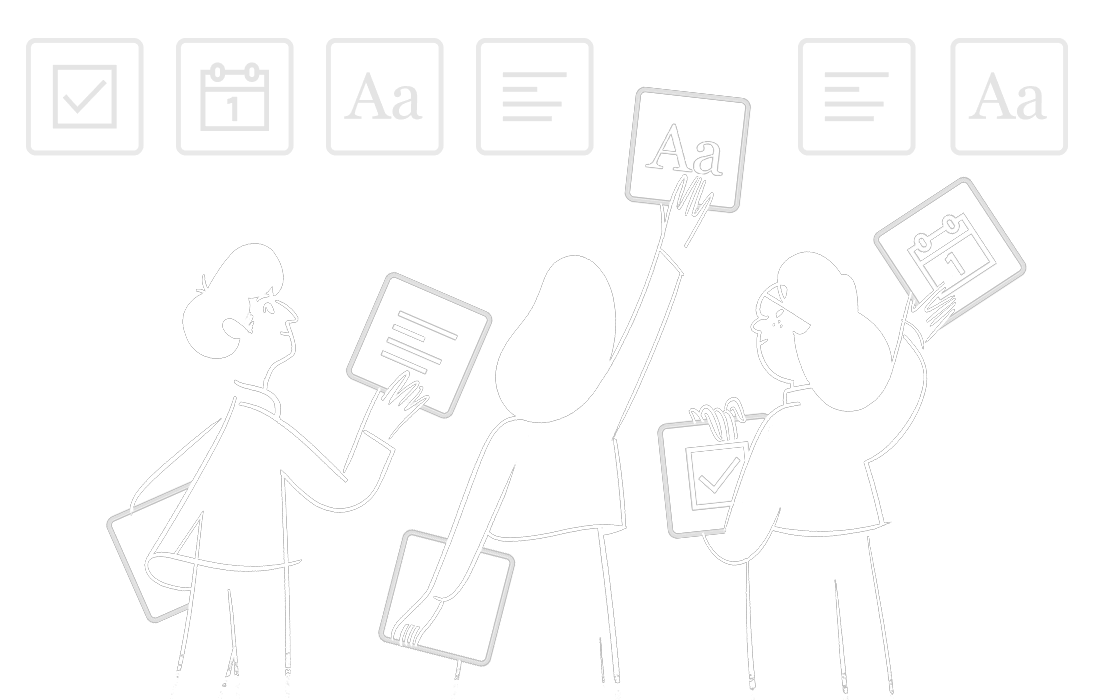
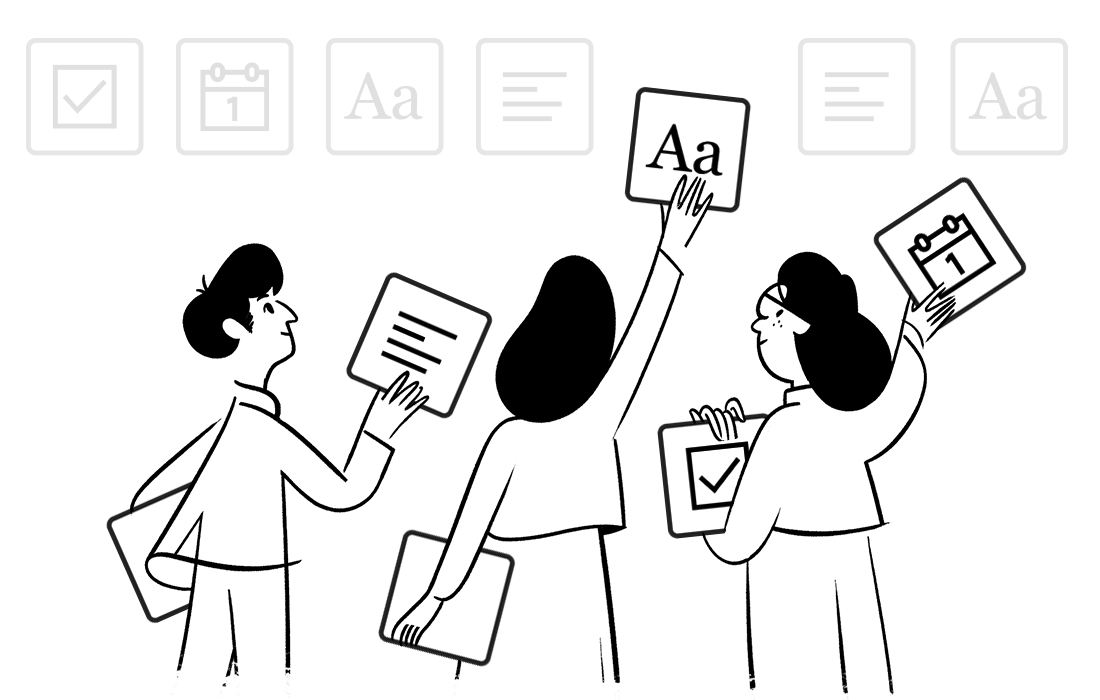
adição do themes-provider para gerenciar o modo escuro e claro

diff --git a/app/layout.tsx b/app/layout.tsx
@@ -1,21 +1,10 @@
 import type { Metadata } from "next";
-import localFont from "next/font/local";
 import "./globals.css";
-
-const geistSans = localFont({
-  src: "./fonts/GeistVF.woff",
-  variable: "--font-geist-sans",
-  weight: "100 900",
-});
-const geistMono = localFont({
-  src: "./fonts/GeistMonoVF.woff",
-  variable: "--font-geist-mono",
-  weight: "100 900",
-});
+import { ThemeProvider } from "next-themes";
 
 export const metadata: Metadata = {
-  title: "Create Next App",
-  description: "Generated by create next app",
+  title: "Horseon",
+  description: "Seu site de notas",
 };
 
 export default function RootLayout({
@@ -24,11 +13,17 @@ export default function RootLayout({
   children: React.ReactNode;
 }>) {
   return (
-    <html lang="en">
-      <body
-        className={`${geistSans.variable} ${geistMono.variable} antialiased`}
-      >
-        {children}
+    <html lang="en" suppressHydrationWarning>
+      <body className={`antialiased`}>
+        <ThemeProvider
+          attribute="class"
+          defaultTheme="system"
+          enableSystem
+          disableTransitionOnChange
+          storageKey="horseon-theme-2"
+        >
+          {children}
+        </ThemeProvider>
       </body>
     </html>
   );

diff --git a/app/(marketing)/_components/navbar.tsx b/app/(marketing)/_components/navbar.tsx
@@ -2,6 +2,7 @@
 
 import { useScrollTop } from "@/hooks/use-scroll-top";
 import { cn } from "@/lib/utils";
+import { Logo } from "./logo";
 
 export const Navbar = () => {
   const scrolled = useScrollTop();
@@ -13,7 +14,20 @@ export const Navbar = () => {
         scrolled && "borde-b shadow-sm",
       )}
     >
-      <p>rolassss</p>
+      <Logo />
+      <div
+        className="
+        md:ml-auto
+        md:justify-end
+        justify-between
+        w-full
+        flex
+        items-center
+        gap-x-2
+        "
+      >
+        Login
+      </div>
     </div>
   );
 };

diff --git a/components/providers /theme-provider.tsx b/components/providers /theme-provider.tsx
@@ -1,0 +1,9 @@
+"use client";
+
+import React from "react";
+import { ThemeProvider as NextThemesProvider } from "next-themes";
+import { type ThemeProviderProps } from "next-themes/dist/types";
+
+export function ThemeProvider({ children, ...props }: ThemeProviderProps) {
+  return <NextThemesProvider {...props}>{children}</NextThemesProvider>;
+}

diff --git a/app/(marketing)/_components/heroes.tsx b/app/(marketing)/_components/heroes.tsx
@@ -28,7 +28,7 @@ export const Heroes = () => {
           md:w-[500px]"
         >
           <Image
-            src="/heroes.png"
+            src="/heroes-white.png"
             fill
             className="object-contain"
             alt="Documento"
